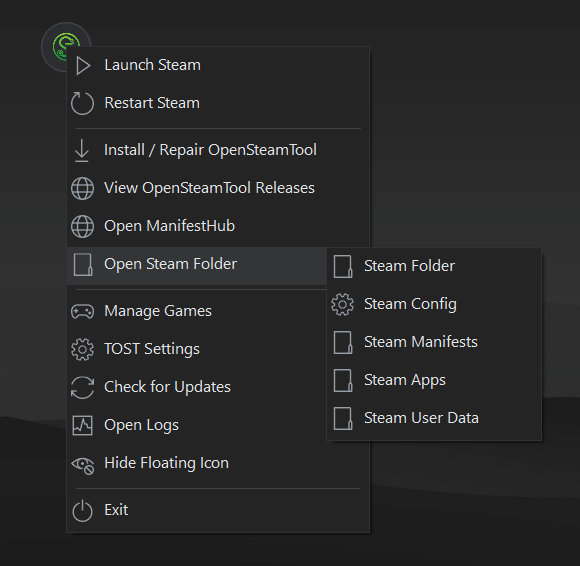
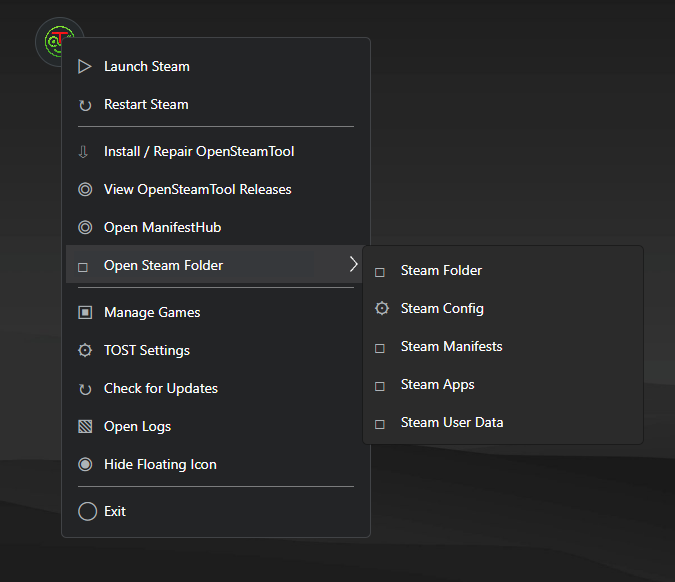
bug fix: game manager crash, Settings clipped option; ux: user friendly error msg during ost dll replacement failed

diff --git a/Desktop/Views/GameManagerView.cs b/Desktop/Views/GameManagerView.cs
@@ -24,6 +24,7 @@ internal sealed class GameManagerView : UserControl
     private readonly Button remove = PrimaryButton("Remove Selected");
     private readonly Button restore = PrimaryButton("Restore Selected");
     private IReadOnlyList<ManagedGame> managedGames = [];
+    private int refreshGeneration;
 
     public GameManagerView()
     {
@@ -152,12 +153,19 @@ internal sealed class GameManagerView : UserControl
         return header;
     }
 
-    private Control CreateGameRow(GameItem item)
+    private Control CreateGameRow(GameItem? item)
     {
+        // Avalonia can briefly ask a recyclable data template to render a null
+        // item while its ItemsSource is being replaced.
+        if (item?.Game is not { } game)
+        {
+            return new Border { MinHeight = 28 };
+        }
+
         var row = CreateGameGrid();
         var selected = new CheckBox
         {
-            Content = item.Game.DisplayName,
+            Content = game.DisplayName,
             VerticalAlignment = VerticalAlignment.Center,
             Margin = new Thickness(7, 2)
         };
@@ -167,9 +175,9 @@ internal sealed class GameManagerView : UserControl
             UpdateActions();
         };
         row.Children.Add(selected);
-        row.Children.Add(CellText(item.Game.AppId, 1));
-        row.Children.Add(CellText(Path.GetFileName(item.Game.LuaPath), 2));
-        row.Children.Add(CellText(item.Game.ManifestPaths.Count.ToString(), 3));
+        row.Children.Add(CellText(game.AppId, 1));
+        row.Children.Add(CellText(Path.GetFileName(game.LuaPath), 2));
+        row.Children.Add(CellText(game.ManifestPaths.Count.ToString(), 3));
         return row;
     }
 
@@ -211,7 +219,11 @@ internal sealed class GameManagerView : UserControl
         targetBar.IsVisible = found.Count > 1;
         installation.ItemsSource = found;
         installation.ItemTemplate = new FuncDataTemplate<SteamInstallation>((item, _) =>
-            new TextBlock { Text = $"{item.Kind} - {item.RootPath}", TextTrimming = TextTrimming.CharacterEllipsis });
+            new TextBlock
+            {
+                Text = item is null ? string.Empty : $"{item.Kind} - {item.RootPath}",
+                TextTrimming = TextTrimming.CharacterEllipsis
+            });
         var preferred = DesktopPaths.PreferencesStore.Load().PreferredSteamInstallation;
         installation.SelectedIndex = found.Count == 0
             ? -1
@@ -224,6 +236,7 @@ internal sealed class GameManagerView : UserControl
 
     private async Task RefreshAsync()
     {
+        var generation = ++refreshGeneration;
         var steam = SelectedInstallation;
         if (steam is null)
         {
@@ -236,26 +249,34 @@ internal sealed class GameManagerView : UserControl
 
         try
         {
-            managedGames = service.FindManagedGames(steam);
-            games.ItemsSource = managedGames.Select(game => new GameItem(game)).ToArray();
+            var refreshedGames = service.FindManagedGames(steam);
+            managedGames = refreshedGames;
+            games.ItemsSource = refreshedGames.Select(game => new GameItem(game)).ToArray();
             recovery.ItemsSource = service.FindRemovedGames(RecoveryRoot)
                 .Select(item => new ArchiveItem(item))
                 .ToArray();
             status.Text = $"Found {managedGames.Count} managed game{(managedGames.Count == 1 ? "" : "s")}.";
 
-            var missingNames = managedGames.Where(game => string.IsNullOrWhiteSpace(game.Name)).Select(game => game.AppId).ToArray();
+            var missingNames = refreshedGames.Where(game => string.IsNullOrWhiteSpace(game.Name)).Select(game => game.AppId).ToArray();
             if (missingNames.Length > 0)
             {
                 var resolved = await SteamGameNameResolver.ResolveAsync(missingNames);
-                managedGames = managedGames
+                if (generation != refreshGeneration)
+                {
+                    return;
+                }
+
+                managedGames = refreshedGames
                     .Select(game => resolved.TryGetValue(game.AppId, out var name) ? game with { Name = name } : game)
                     .ToArray();
                 games.ItemsSource = managedGames.Select(game => new GameItem(game)).ToArray();
             }
         }
-        catch (Exception ex) when (ex is IOException or UnauthorizedAccessException)
+        catch (Exception ex)
         {
-            status.Text = $"Could not scan the Steam installation: {ex.Message}";
+            DesktopLog.Error($"Game Manager refresh failed: {ex}");
+            status.Text = "Game Manager could not read the Steam files. Close Steam if it is updating files, then click Refresh. " +
+                          $"Details: {ex.Message}";
         }
 
         UpdateActions();

diff --git a/Tests/Core/Program.cs b/Tests/Core/Program.cs
@@ -1,5 +1,6 @@
 using Trionine.TOST.Core.Imports;
 using Trionine.TOST.Core.Integrations.SlsSteam;
+using Trionine.TOST.Core.Integrations.OpenSteamTool;
 using Trionine.TOST.Core.Steam;
 using Trionine.TOST.Core.GameManagement;
 using Trionine.TOST.Core.Configuration;
@@ -18,6 +19,7 @@ var tests = new (string Name, Action Run)[]
     ("Native and Flatpak launch hooks are guarded and removable", TestLaunchConfiguration),
     ("Imports route into a fake Steam installation and reject conflicts", TestImportRouting),
     ("Windows imports and game management use the OST Steam layout", TestWindowsImportRouting),
+    ("OST lock errors explain how to close Steam and retry", TestOpenSteamToolLockMessage),
     ("Configuration changes back up and restore exact bytes", TestConfigBackupRestore),
     ("Linux Steam discovery uses only the supplied fake home", TestSteamDiscovery),
     ("SLSsteam libraries archive and restore in a fake installation", TestSlsRecovery),
@@ -305,6 +307,21 @@ static void TestWindowsImportRouting()
 
     var games = new ManagedGameService().FindManagedGames(installation);
     True(games.Count == 1 && games[0].ManifestPaths.Count == 1, "Windows Game Manager did not use the OST paths.");
+}
+
+static void TestOpenSteamToolLockMessage()
+{
+    var result = new OpenSteamToolInstallResult(
+        "1.4.8",
+        [
+            new OpenSteamToolFileResult("OpenSteamTool.dll", null, "Access to the path is denied."),
+            new OpenSteamToolFileResult("opensteamtool.toml", @"C:\\Steam\\opensteamtool.toml", null)
+        ]);
+    var message = result.ToMessage();
+    True(message.Contains("Close Steam completely", StringComparison.Ordinal) &&
+         message.Contains("Steam > Exit", StringComparison.Ordinal) &&
+         message.Contains("restart TOST as administrator", StringComparison.Ordinal),
+        "OST lock errors did not provide actionable recovery instructions.");
 }
 
 static void TestPreferences()

diff --git a/Desktop/App.axaml.cs b/Desktop/App.axaml.cs
@@ -67,13 +67,28 @@ public sealed partial class App : Application
             return;
         }
 
-        gameManagerWindow = CreateToolWindow(
-            "TOST Game Manager",
-            760,
-            500,
-            new GameManagerView());
-        gameManagerWindow.Closed += (_, _) => gameManagerWindow = null;
-        gameManagerWindow.Show();
+        try
+        {
+            gameManagerWindow = CreateToolWindow(
+                "TOST Game Manager",
+                760,
+                500,
+                new GameManagerView());
+            gameManagerWindow.Closed += (_, _) => gameManagerWindow = null;
+            gameManagerWindow.Show();
+        }
+        catch (Exception ex)
+        {
+            Services.DesktopLog.Error($"Game Manager could not open: {ex}");
+            gameManagerWindow = null;
+            if (floatingIcon is not null)
+            {
+                _ = TostDialog.ShowAsync(
+                    floatingIcon,
+                    "TOST Game Manager",
+                    $"Game Manager could not open. No Steam files were changed.{Environment.NewLine}{Environment.NewLine}{ex.Message}");
+            }
+        }
     }
 
     internal void ShowSettings()
@@ -88,7 +103,7 @@ public sealed partial class App : Application
         settingsWindow = CreateToolWindow(
             "TOST Settings",
             520,
-            OperatingSystem.IsWindows() ? 315 : 300,
+            OperatingSystem.IsWindows() ? 390 : 340,
             new SettingsView());
         settingsWindow.Closed += (_, _) => settingsWindow = null;
         settingsWindow.Show();

diff --git a/Core/Integrations/OpenSteamTool/OpenSteamToolInstallerService.cs b/Core/Integrations/OpenSteamTool/OpenSteamToolInstallerService.cs
@@ -28,11 +28,27 @@ public sealed record OpenSteamToolInstallResult(string? Tag, IReadOnlyList<OpenS
         lines.Add($"Imported {ImportedCount} file{(ImportedCount == 1 ? string.Empty : "s")}.");
         foreach (var failure in Files.Where(file => !file.Success))
         {
-            lines.Add($"Skipped {failure.Name}: {failure.Error}");
+            lines.Add(IsLockedOrDenied(failure.Error)
+                ? $"Could not replace {failure.Name} because Steam or another process is using it."
+                : $"Skipped {failure.Name}: {failure.Error}");
+        }
+
+        if (Files.Any(file => !file.Success && IsLockedOrDenied(file.Error)))
+        {
+            lines.Add(string.Empty);
+            lines.Add("Close Steam completely using Steam > Exit, wait for its tray icon to disappear, then run Install / Repair again.");
+            lines.Add("If Steam is already closed, restart TOST as administrator and verify that your Steam folder is writable.");
         }
 
         return string.Join(Environment.NewLine, lines);
     }
+
+    private static bool IsLockedOrDenied(string? error) =>
+        !string.IsNullOrWhiteSpace(error) &&
+        (error.Contains("access", StringComparison.OrdinalIgnoreCase) && error.Contains("denied", StringComparison.OrdinalIgnoreCase) ||
+         error.Contains("being used", StringComparison.OrdinalIgnoreCase) ||
+         error.Contains("used by another process", StringComparison.OrdinalIgnoreCase) ||
+         error.Contains("sharing violation", StringComparison.OrdinalIgnoreCase));
 }
 
 public sealed class OpenSteamToolInstallerService

diff --git a/Desktop/Views/SettingsView.cs b/Desktop/Views/SettingsView.cs
@@ -69,11 +69,16 @@ internal sealed class SettingsView : UserControl
             Children = { save, cancel }
         };
 
+        var scroller = new ScrollViewer
+        {
+            Content = fields,
+            VerticalScrollBarVisibility = Avalonia.Controls.Primitives.ScrollBarVisibility.Auto
+        };
         Content = new Grid
         {
             RowDefinitions = new RowDefinitions("*,Auto,Auto"),
             RowSpacing = 10,
-            Children = { fields, status, actions }
+            Children = { scroller, status, actions }
         };
         Grid.SetRow(status, 1);
         Grid.SetRow(actions, 2);
@@ -98,7 +103,11 @@ internal sealed class SettingsView : UserControl
         var installations = SteamDiscovery.FindInstallations();
         preferredInstallation.ItemsSource = installations;
         preferredInstallation.ItemTemplate = new Avalonia.Controls.Templates.FuncDataTemplate<SteamInstallation>((item, _) =>
-            new TextBlock { Text = $"{DisplayKind(item.Kind)} - {item.RootPath}", TextTrimming = TextTrimming.CharacterEllipsis });
+            new TextBlock
+            {
+                Text = item is null ? string.Empty : $"{DisplayKind(item.Kind)} - {item.RootPath}",
+                TextTrimming = TextTrimming.CharacterEllipsis
+            });
         preferredInstallation.SelectedIndex = installations.Count == 0
             ? -1
             : Math.Max(0, installations.ToList().FindIndex(item => item.Kind == preferences.PreferredSteamInstallation));

diff --git a/Desktop/Services/SteamProcessGuard.cs b/Desktop/Services/SteamProcessGuard.cs
@@ -1,0 +1,44 @@
+using System.Diagnostics;
+
+namespace Trionine.TOST.Desktop.Services;
+
+internal static class SteamProcessGuard
+{
+    public static bool IsSteamRunning()
+    {
+        if (!OperatingSystem.IsWindows())
+        {
+            return false;
+        }
+
+        Process[] processes;
+        try
+        {
+            processes = Process.GetProcessesByName("steam");
+        }
+        catch (Exception ex) when (ex is InvalidOperationException or System.ComponentModel.Win32Exception)
+        {
+            DesktopLog.Error($"Could not check whether Steam is running: {ex.Message}");
+            return false;
+        }
+
+        try
+        {
+            return processes.Any(process => !process.HasExited);
+        }
+        finally
+        {
+            foreach (var process in processes)
+            {
+                process.Dispose();
+            }
+        }
+    }
+
+    public static string CloseSteamInstructions =>
+        "Steam is currently running and is locking OpenSteamTool files.\n\n" +
+        "1. In Steam, open Steam > Exit.\n" +
+        "2. Wait until the Steam tray icon disappears.\n" +
+        "3. Choose Install / Repair OpenSteamTool again.\n\n" +
+        "TOST has not applied any files.";
+}

diff --git a/Desktop/FloatingIconWindow.cs b/Desktop/FloatingIconWindow.cs
@@ -78,6 +78,12 @@ internal sealed class FloatingIconWindow : Window
             return;
         }
 
+        if (DesktopPlatform.UsesOpenSteamTool && SteamProcessGuard.IsSteamRunning())
+        {
+            await TostDialog.ShowAsync(this, "Close Steam First", SteamProcessGuard.CloseSteamInstructions);
+            return;
+        }
+
         if (!await TostDialog.ConfirmAsync(
                 this,
                 $"Install / Repair {DesktopPlatform.IntegrationName}",
@@ -377,6 +383,12 @@ internal sealed class FloatingIconWindow : Window
         if (steam is null)
         {
             await TostDialog.ShowAsync(this, "Import Files", "No Steam installation was detected. Check TOST Settings.");
+            return;
+        }
+
+        if (DesktopPlatform.UsesOpenSteamTool && SteamProcessGuard.IsSteamRunning())
+        {
+            await TostDialog.ShowAsync(this, "Close Steam First", SteamProcessGuard.CloseSteamInstructions);
             return;
         }
 
